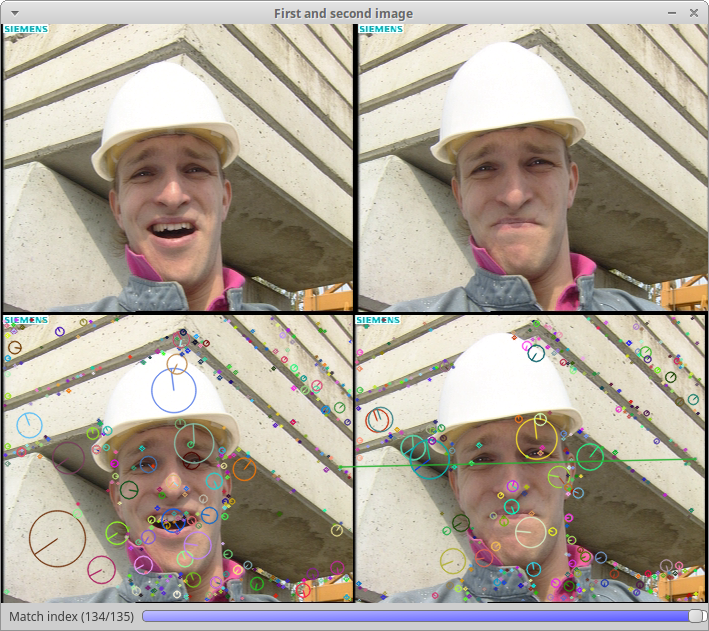
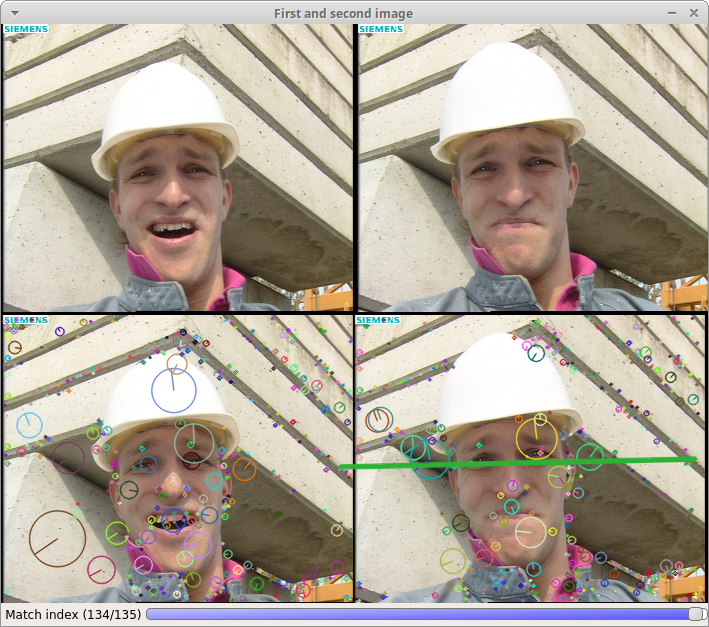
Use new ability to draw thicker lines for matching keypoints

diff --git a/feature_detection/sift_keypoint_matching.cpp b/feature_detection/sift_keypoint_matching.cpp
@@ -1,5 +1,5 @@
 //Illustration of SIFT keypoint matching
-// Andreas Unterweger, 2017-2020
+// Andreas Unterweger, 2017-2021
 //This code is licensed under the 3-Clause BSD License. See LICENSE file for details.
 
 #include <iostream>
@@ -75,8 +75,9 @@ static void GetMatches(const Mat &first_image, vector<KeyPoint> &first_keypoints
 
 static Mat DrawMatches(const Mat &first_image, const vector<KeyPoint> &first_keypoints, const Mat &second_image, const vector<KeyPoint> &second_keypoints, const vector<DMatch> &matches)
 {
+  constexpr auto line_width = 3;
   Mat match_image;
-  drawMatches(first_image, first_keypoints, second_image, second_keypoints, matches, match_image, Scalar::all(-1), Scalar::all(-1), vector<char>(), DrawMatchesFlags::DRAW_RICH_KEYPOINTS);
+  drawMatches(first_image, first_keypoints, second_image, second_keypoints, matches, match_image, line_width, Scalar::all(-1), Scalar::all(-1), vector<char>(), DrawMatchesFlags::DRAW_RICH_KEYPOINTS);
   return match_image;
 }
 

diff --git a/feature_detection/sift_keypoint_matching_readme.md b/feature_detection/sift_keypoint_matching_readme.md
@@ -40,7 +40,7 @@ Program parameters
 Hard-coded parameters
 ---------------------
 
-None
+* `line_width` (local to `DrawMatches`): Width of the line connecting the supposedly-matching keypoints.
 
 Known issues
 ------------
